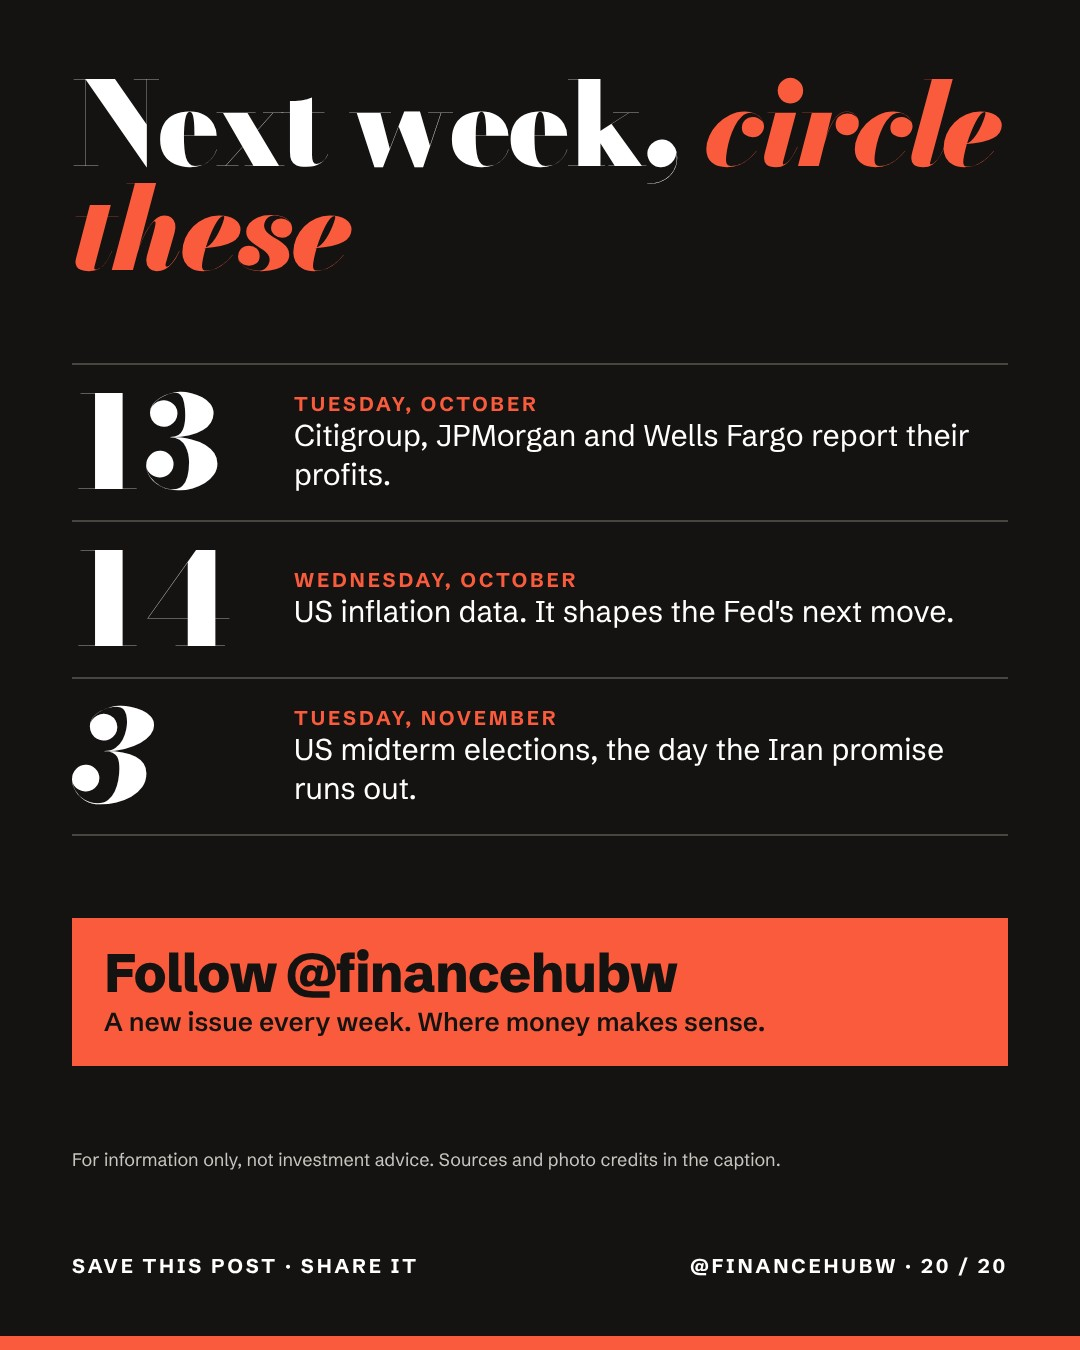
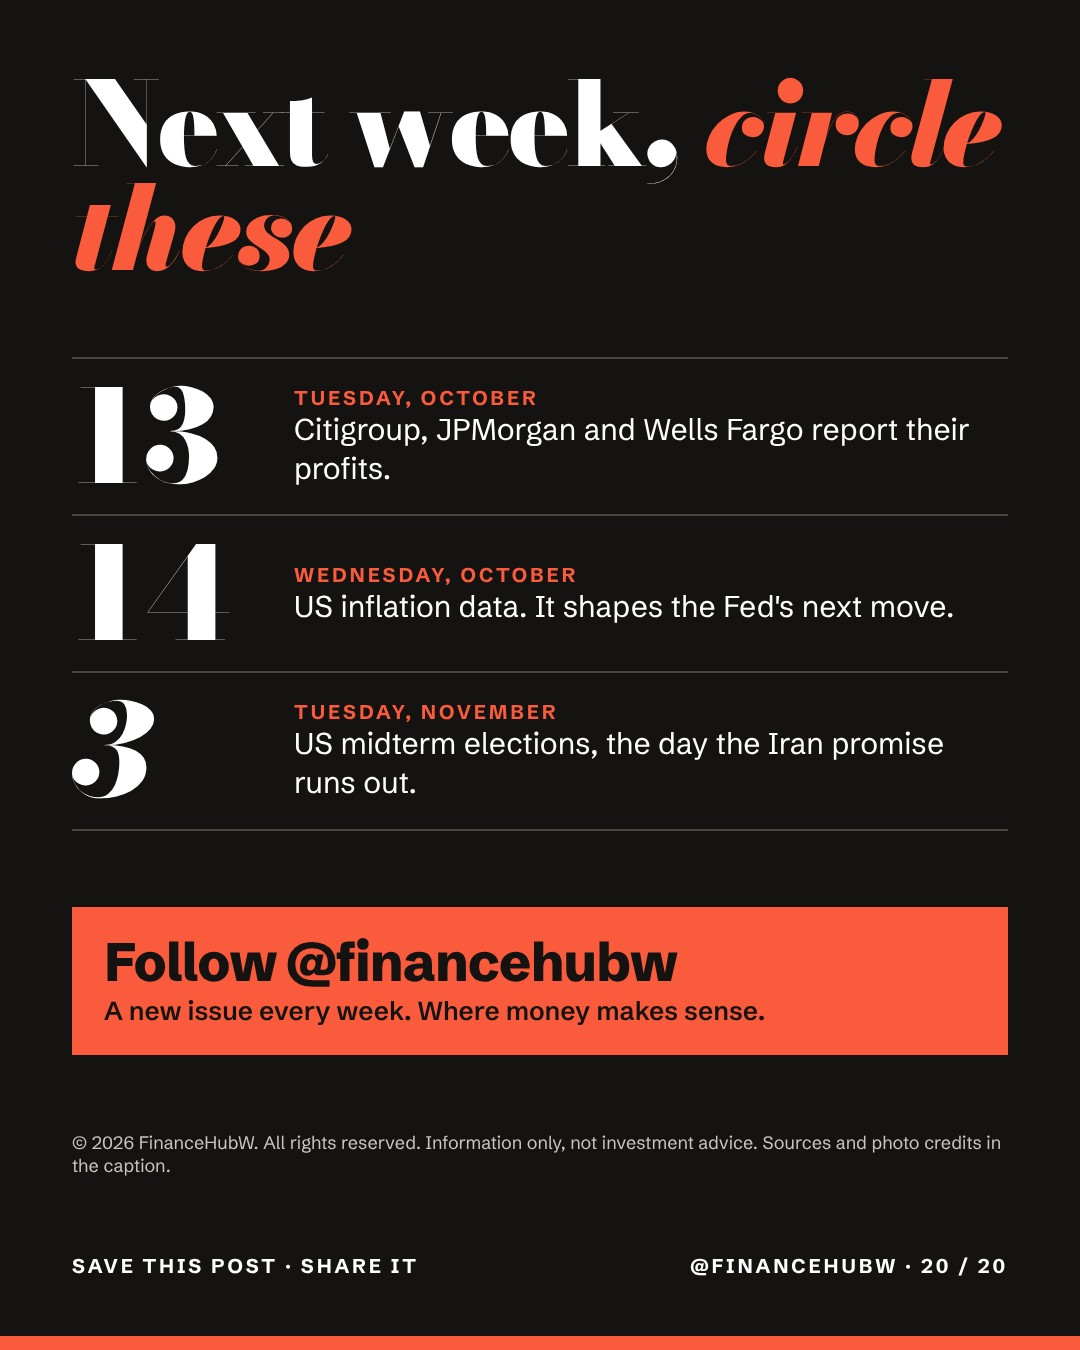
Add copyright notices and licence terms for The Weekly magazine

diff --git a/site/index.html b/site/index.html
@@ -1129,7 +1129,7 @@ load(true);setInterval(load,300000);
 // magazine
 fetch('magazine.json',{cache:'no-store'}).then(function(r){return r.json();}).then(function(j){
  var iss=(j.issues||[]).sort(function(a,b){return b.issue-a.issue;});
- function slidesHtml(x){var n=Math.min(parseInt(x.slides,10)||0,20),k=parseInt(x.issue,10);if(!n||!k)return '';var p=function(v){return (v<10?'0':'')+v;},h='';for(var i=1;i<=n;i++)h+='<img loading="lazy" width="1080" height="1350" class="h-80 w-auto shrink-0" alt="Issue '+k+', slide '+i+' of '+n+'" src="media/magazine/issue-'+p(k)+'/'+p(i)+'.jpg"/>';return '<div class="flex gap-space-sm overflow-x-auto mt-space-lg pb-space-sm" tabindex="0" aria-label="Issue '+k+' slides">'+h+'</div>';}
+ function slidesHtml(x){var n=Math.min(parseInt(x.slides,10)||0,20),k=parseInt(x.issue,10);if(!n||!k)return '';var p=function(v){return (v<10?'0':'')+v;},h='';for(var i=1;i<=n;i++)h+='<img loading="lazy" width="1080" height="1350" class="h-80 w-auto shrink-0" alt="Issue '+k+', slide '+i+' of '+n+'" src="media/magazine/issue-'+p(k)+'/'+p(i)+'.jpg"/>';return '<div class="flex gap-space-sm overflow-x-auto mt-space-lg pb-space-sm" tabindex="0" aria-label="Issue '+k+' slides">'+h+'</div>'+'<p class="font-body-sm text-body-sm text-outline mt-space-sm">© FinanceHubW. All rights reserved. Share slides with credit to @financehubw. Photographs belong to their credited authors.</p>';}
  function render(i){var x=iss[i];if(!x)return;
   document.getElementById('mag-current').innerHTML='<div class="flex items-center gap-space-sm mb-space-sm"><span class="bg-primary-container text-on-primary-container font-label-caps text-label-caps uppercase px-space-xs py-0.5">Issue '+x.issue+'</span><span class="font-label-caps text-label-caps uppercase text-outline">'+esc(x.week)+(j.sample?' · Example':'')+'</span></div>'+
   '<h3 class="font-headline-md text-headline-md text-on-surface">'+esc(x.title)+'</h3><p class="font-body-md text-body-md text-on-surface-variant mt-space-sm">'+esc(x.summary)+'</p>'+

diff --git a/magazine/issues/issue-01/slides/20.html b/magazine/issues/issue-01/slides/20.html
@@ -27,7 +27,7 @@
     <div style="font-weight: 800; font-size: 54px; line-height: 1; letter-spacing: -0.02em">Follow @financehubw</div>
     <div style="font-size: 26px; font-weight: 600">A new issue every week. Where money makes sense.</div>
   </div>
-  <div style="font-size: 18px; color: #C9C6C0">For information only, not investment advice. Sources and photo credits in the caption.</div>
+  <div style="font-size: 18px; color: #C9C6C0">© 2026 FinanceHubW. All rights reserved. Information only, not investment advice. Sources and photo credits in the caption.</div>
   <div style="display: flex; justify-content: space-between; align-items: center; font-size: 20px; font-weight: 700; letter-spacing: 0.14em"><div>SAVE THIS POST · SHARE IT</div><div>@FINANCEHUBW · 20 / 20</div></div>
   <div style="position: absolute; left: 0; bottom: 0; width: 100%; height: 14px; background: #FA5B3C" aria-hidden="true"></div>
 </div>

diff --git a/magazine/issues/issue-01/slides/01.html b/magazine/issues/issue-01/slides/01.html
@@ -20,7 +20,7 @@
       <div>@FINANCEHUBW</div>
       <div style="display: flex; align-items: center; gap: 14px; color: #FFFFFF">SWIPE<svg width="52" height="24" viewBox="0 0 52 24" fill="none" aria-hidden="true"><path d="M2 12h46M38 3l10 9-10 9" stroke="#FFFFFF" stroke-width="3"/></svg></div>
     </div>
-    <div style="font-size: 17px; color: #C9C6C0">File photo: Hurricane Florence from orbit, 2018. Alexander Gerst / ESA–NASA.</div>
+    <div style="font-size: 17px; color: #C9C6C0">© 2026 FinanceHubW · File photo: Hurricane Florence from orbit, 2018. Alexander Gerst / ESA–NASA.</div>
   </div>
   <div style="position: absolute; left: 0; bottom: 0; width: 5%; height: 14px; background: #FFFFFF" aria-hidden="true"></div>
 </div>

diff --git a/CONTENT_LICENSE.md b/CONTENT_LICENSE.md
@@ -5,6 +5,10 @@
 This covers the written posts published by @FinanceHubW on X and elsewhere, the glossary, the
 standards page text, and the FinanceHubW name, logo and brand assets in `/brand`.
 
+It also covers **The Weekly**, the FinanceHubW magazine: the text, headlines, slide designs and
+layouts in `/magazine`, the rendered slides in `/site/media/magazine`, and the magazine section of
+the website.
+
 **Allowed without asking**
 - Retweeting, quote-posting, linking and embedding posts using the platform's own tools.
 - News organisations quoting a post with visible credit: "via @FinanceHubW" or "Source: FinanceHubW".
@@ -16,3 +20,11 @@ standards page text, and the FinanceHubW name, logo and brand assets in `/brand`
 
 Underlying news facts belong to no one; this license covers FinanceHubW's own wording, selection,
 arrangement and branding. To request other use, message @FinanceHubW on X.
+
+**Magazine**
+- Sharing a whole issue or single slides is welcome when the slide is unaltered and the
+  @financehubw handle stays visible. Reposting slides with the handle cropped or covered,
+  redrawing them under another name, or selling them is not allowed.
+- The photographs used in the magazine are not FinanceHubW's. Each belongs to its credited author
+  under the licence listed in `magazine/photos/CREDITS.md`, and this licence does not change that.
+- The fonts in `magazine/fonts` are under the SIL Open Font License.

diff --git a/magazine/README.md b/magazine/README.md
@@ -29,4 +29,7 @@ Without them the workflow does nothing. Set the repo variable `SOCIAL_DRY_RUN=1`
   pink `#FF3D8B`, gold `#FABC4D`). Plus and minus signs next to big Bodoni numbers are set in
   Schibsted Grotesk, because Bodoni's own signs are too thin to see.
 - Every slide but the cover ends with a teaser for the next slide and a progress bar.
+- Copyright: the cover and the last slide carry "© <year> FinanceHubW", and the caption ends with
+  "© <year> FinanceHubW. All rights reserved. Share with credit to @financehubw." The terms are in
+  `CONTENT_LICENSE.md`.
 - Photo credits: `magazine/photos/CREDITS.md`. Fonts are under the SIL Open Font License.
